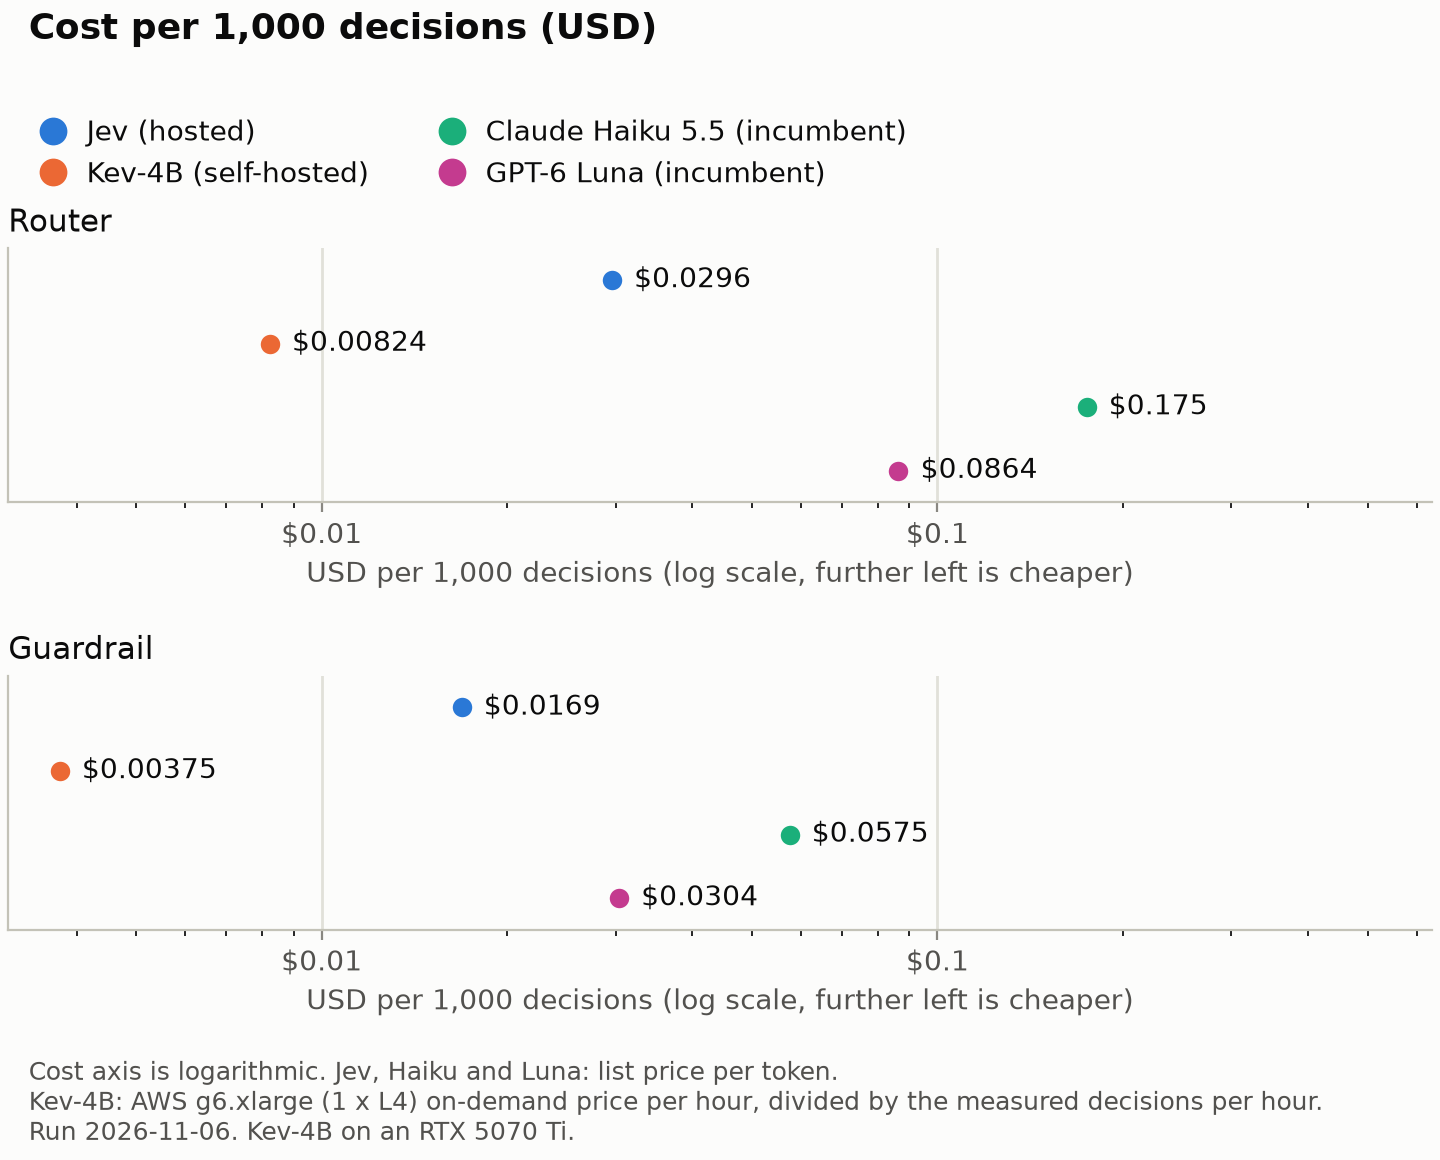
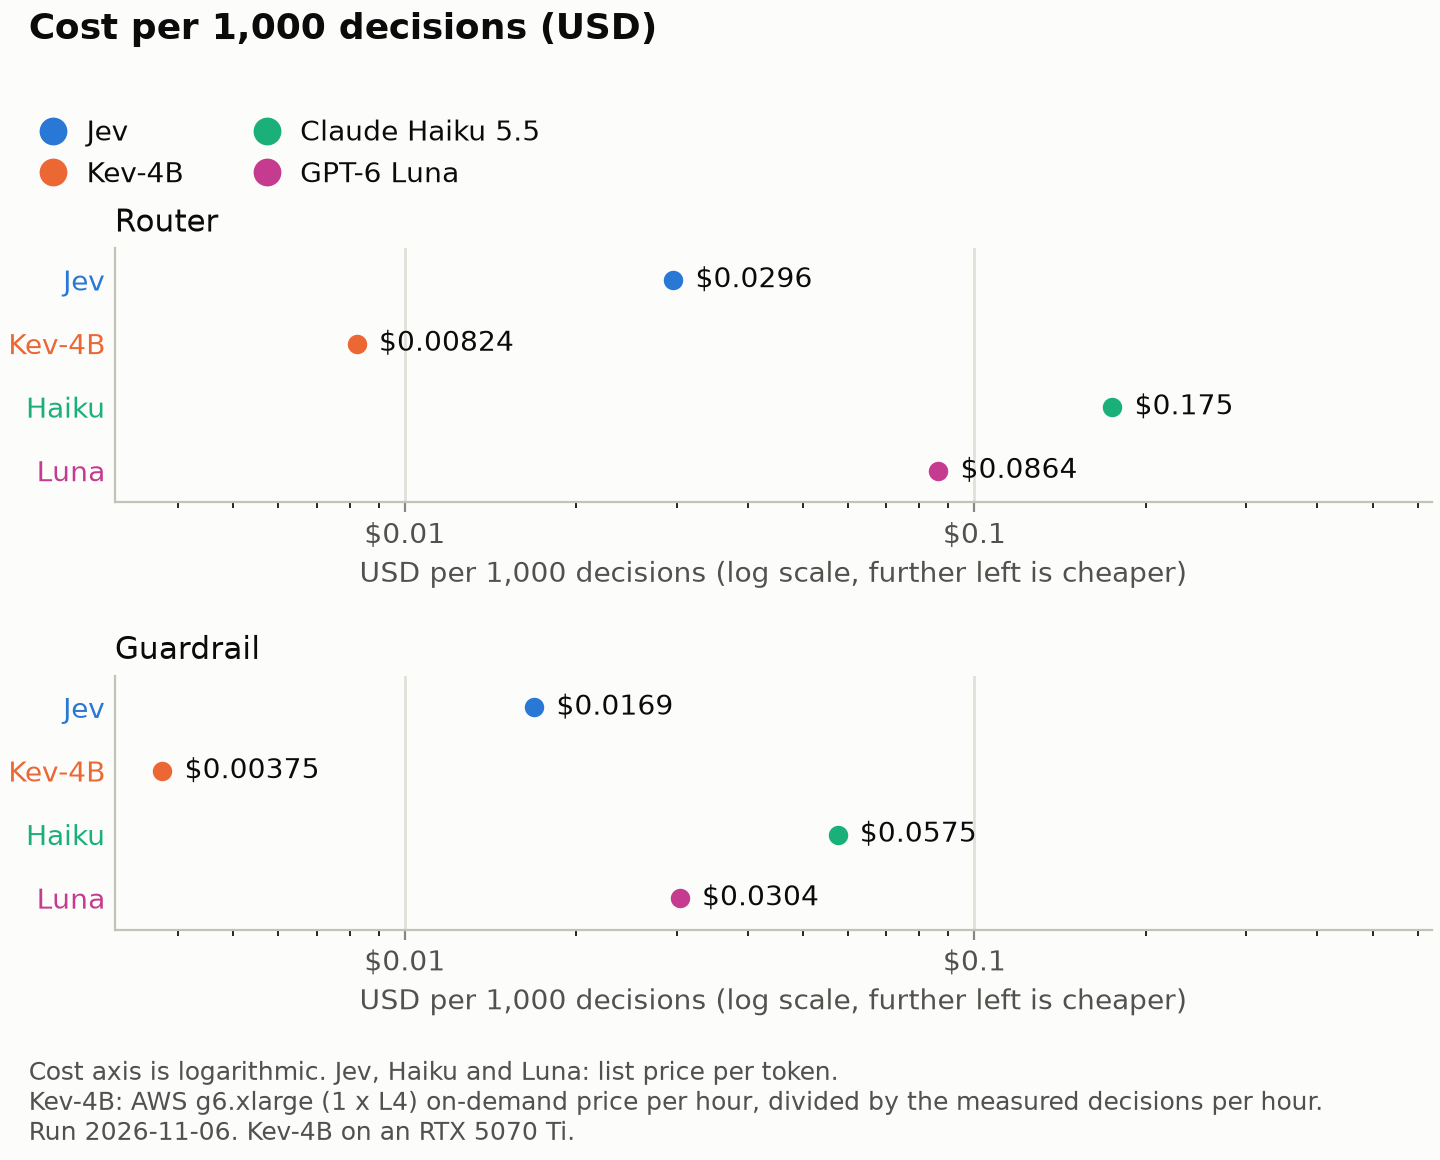
feat: split the cost chart into one panel per node with arm labels

diff --git a/src/bench/chart.py b/src/bench/chart.py
@@ -16,6 +16,8 @@ from bench.nodes import NODES
 
 class ArmStyle(NamedTuple):
     label: str
+    # The row label on the cost chart. The legend above it has the full label.
+    short: str
     color: str
 
 
@@ -23,10 +25,10 @@ class ArmStyle(NamedTuple):
 # green has less than 3:1 contrast on the surface, so each dot has its value as a text label, and the README has the
 # table.
 ARMS = {
-    "jev": ArmStyle("Jev (hosted)", "#2a78d6"),
-    "kev": ArmStyle("Kev-4B (self-hosted)", "#eb6834"),
-    "haiku": ArmStyle("Claude Haiku 5.5 (incumbent)", "#1baf7a"),
-    "luna": ArmStyle("GPT-6 Luna (incumbent)", "#c43b8f"),
+    "jev": ArmStyle("Jev", "Jev", "#2a78d6"),
+    "kev": ArmStyle("Kev-4B", "Kev-4B", "#eb6834"),
+    "haiku": ArmStyle("Claude Haiku 5.5", "Haiku", "#1baf7a"),
+    "luna": ArmStyle("GPT-6 Luna", "Luna", "#c43b8f"),
 }
 SURFACE = "#fcfcfb"
 TEXT_PRIMARY = "#0b0b0b"
@@ -285,7 +287,10 @@ def _cost(points: list[Point], note: str) -> Figure:
                 )  # fmt: skip
                 continue
             _dot(axes, p.cost_per_1k, row, arm, f"${p.cost_per_1k:.3g}", RIGHT_OF_DOT, ha="left", va="center")
-        axes.set_yticks([])
+        axes.set_yticks(range(len(arms)), [ARMS[arm].short for arm in arms])
+        axes.tick_params(axis="y", length=0)
+        for tick, arm in zip(axes.get_yticklabels(), arms, strict=True):
+            tick.set_color(ARMS[arm].color)
         axes.set_ylim(len(arms) - 0.5, -0.5)
         axes.set_xlabel(
             "USD per 1,000 decisions (log scale, further left is cheaper)", color=TEXT_SECONDARY, fontsize=FONT_SIZE
